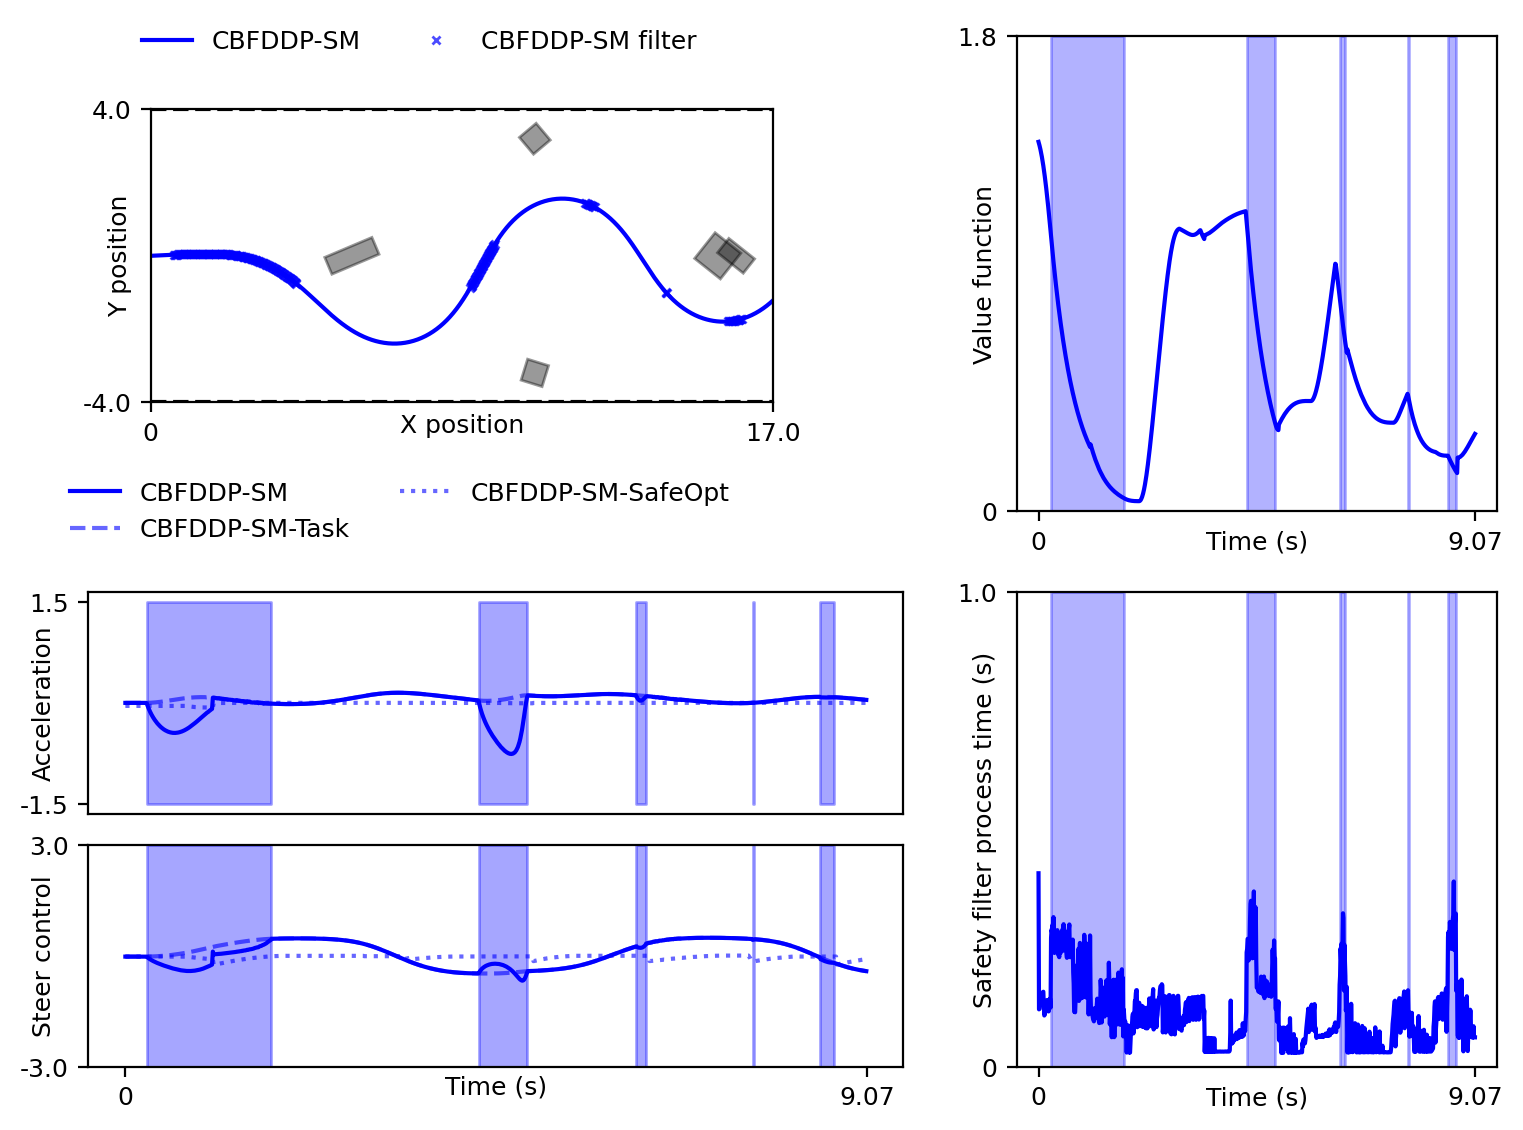
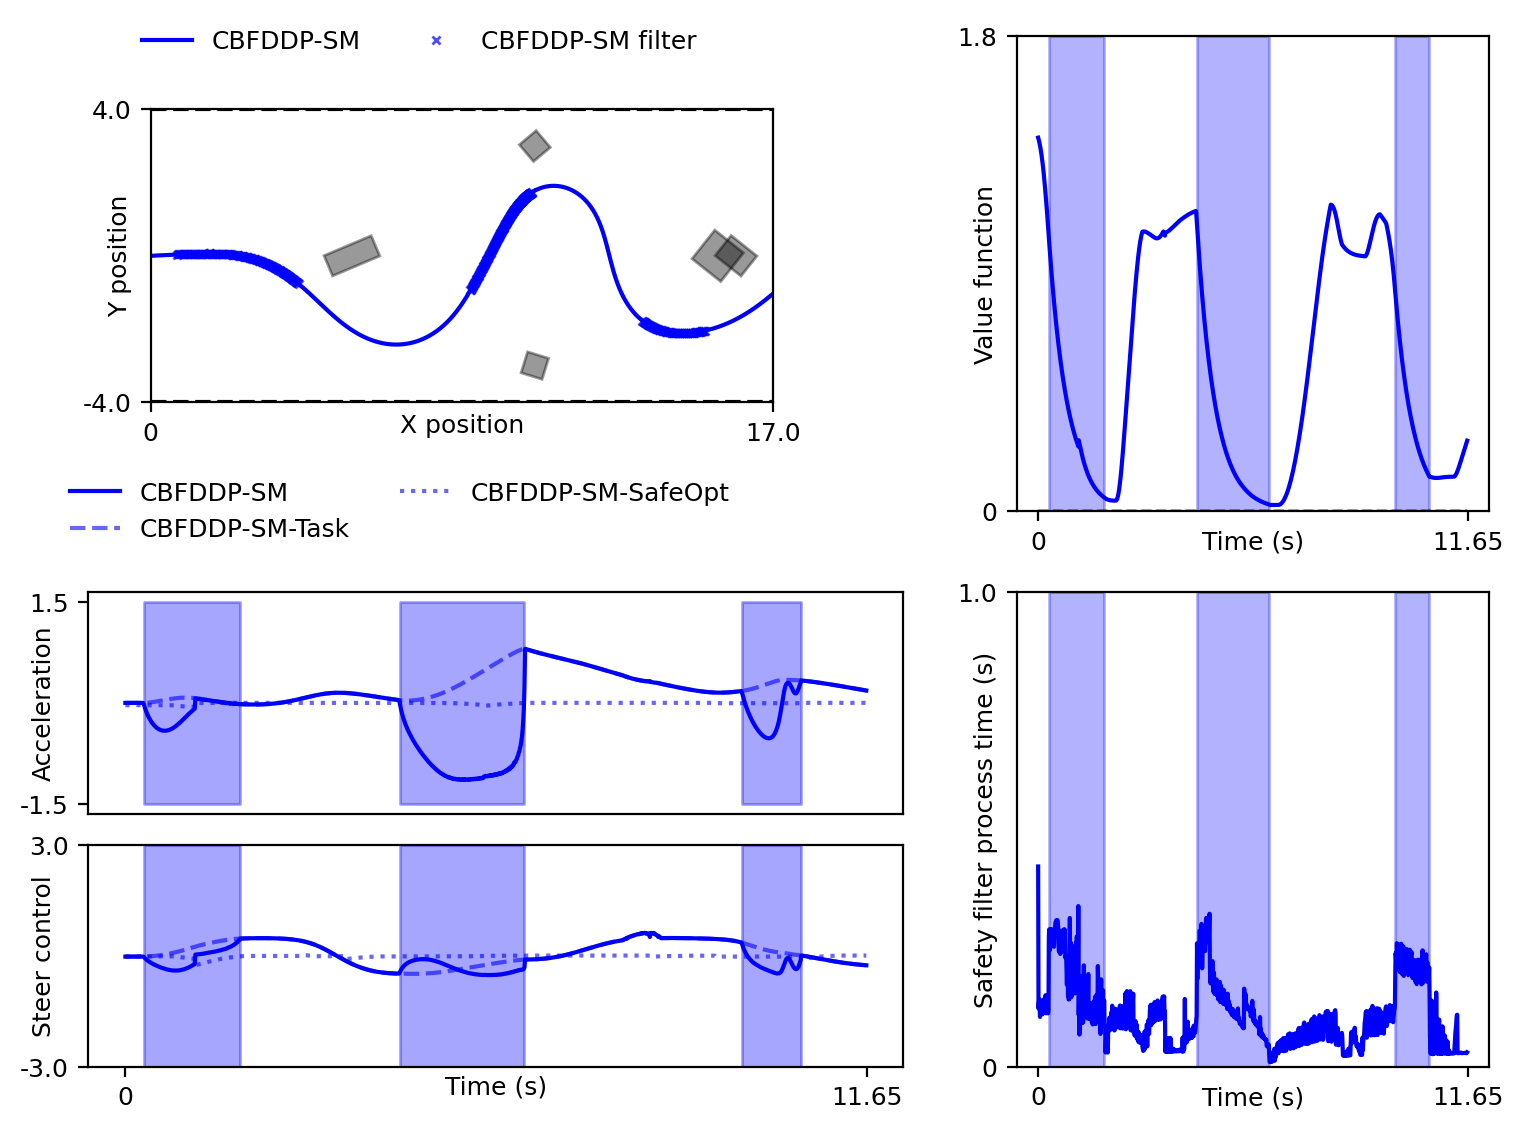
Do noop sign switch (#26)
* noop sign switch

* make box kappa less conservative

* make boxes bigger

* update plots

diff --git a/simulators/costs/obs_margin.py b/simulators/costs/obs_margin.py
@@ -67,10 +67,10 @@ class BoxObsMargin(BaseMargin):
         # Box obstacle
         self.box_center = jnp.array([[box_spec[0]], [box_spec[1]]])
         self.box_yaw = box_spec[2]
-        # rotate anti-clockwise (to move the point from world frame to obstacle frame)
+        # rotate clockwise (to move the point from world frame to obstacle frame)
         self.obs_rot_mat = jnp.array([[
-            jnp.cos(self.box_yaw), -jnp.sin(self.box_yaw)
-        ], [jnp.sin(self.box_yaw), jnp.cos(self.box_yaw)]])
+            jnp.cos(self.box_yaw), jnp.sin(self.box_yaw)
+        ], [-jnp.sin(self.box_yaw), jnp.cos(self.box_yaw)]])
         self.box_halflength = box_spec[3]
         self.box_halfwidth = box_spec[4]
         self.buffer = buffer
@@ -121,13 +121,13 @@ class SoftBoxObsMargin(BaseMargin):
         # Box obstacle
         self.box_center = jnp.array([[box_spec[0]], [box_spec[1]]])
         self.box_yaw = box_spec[2]
-        # rotate anti-clockwise (to move the point from world frame to obstacle frame)
+        # rotate clockwise (to move the point from world frame to obstacle frame)
         self.obs_rot_mat = jnp.array([[
-            jnp.cos(self.box_yaw), -jnp.sin(self.box_yaw)
-        ], [jnp.sin(self.box_yaw), jnp.cos(self.box_yaw)]])
+            jnp.cos(self.box_yaw), jnp.sin(self.box_yaw)
+        ], [-jnp.sin(self.box_yaw), jnp.cos(self.box_yaw)]])
         self.box_halflength = box_spec[3]
         self.box_halfwidth = box_spec[4]
-        self.box_kappa = 4.0
+        self.box_kappa = 5.0
         self.buffer = buffer
 
     @partial(jax.jit, static_argnames='self')
@@ -178,9 +178,9 @@ class EllipseObsMargin(BaseMargin):
         self.ellipse_yaw = ellipse_spec[2]
         self.ellipse_half_length = ellipse_spec[3]
         self.ellipse_half_width = ellipse_spec[4]
-        # rotate anti-clockwise (to move the point from world frame to obstacle frame)
-        self.obs_rot_mat = jnp.array([[jnp.cos(self.ellipse_yaw), -jnp.sin(self.ellipse_yaw)], 
-                                        [jnp.sin(self.ellipse_yaw), jnp.cos(self.ellipse_yaw)]])
+        # rotate clockwise (to move the point from world frame to obstacle frame)
+        self.obs_rot_mat = jnp.array([[jnp.cos(self.box_yaw), jnp.sin(self.box_yaw)], 
+                    [-jnp.sin(self.box_yaw), jnp.cos(self.box_yaw)]])
         # This is a conservative approximation of how much units of cost margin we provide to the buffer.
         # A better approximation would be the to sample footprint and choose minimum or smooth minimum.
         # We use this approximaiton for speed and smoothness.

diff --git a/simulators/car/car_single.py b/simulators/car/car_single.py
@@ -357,7 +357,7 @@ class CarSingle5DEnv(BaseSingleEnv):
                 dimensions = vertices[2:4]
                 obs_rect = plt.Rectangle(
                     [vertices[0] - vertices[3], vertices[1] - vertices[4]], 2*vertices[3], 
-                        2*vertices[4], angle = -np.rad2deg(vertices[2]), rotation_point='center', alpha=0.4, color=c)
+                        2*vertices[4], angle = np.rad2deg(vertices[2]), rotation_point='center', alpha=0.4, color=c)
                 ax.add_patch(obs_rect)
         elif self.cost.constraint.obsc_type == 'circle':
             for vertices in self.obs_vertices_list:
@@ -368,7 +368,7 @@ class CarSingle5DEnv(BaseSingleEnv):
             for vertices in self.obs_vertices_list:
                 obs_ellipse = Ellipse(
                     [vertices[0], vertices[1]], 2*vertices[3], 2*vertices[4], 
-                        angle = -np.rad2deg(vertices[2]), alpha=0.4, color=c)
+                        angle = np.rad2deg(vertices[2]), alpha=0.4, color=c)
                 ax.add_patch(obs_ellipse)
 
     def render_state_cost_map(
